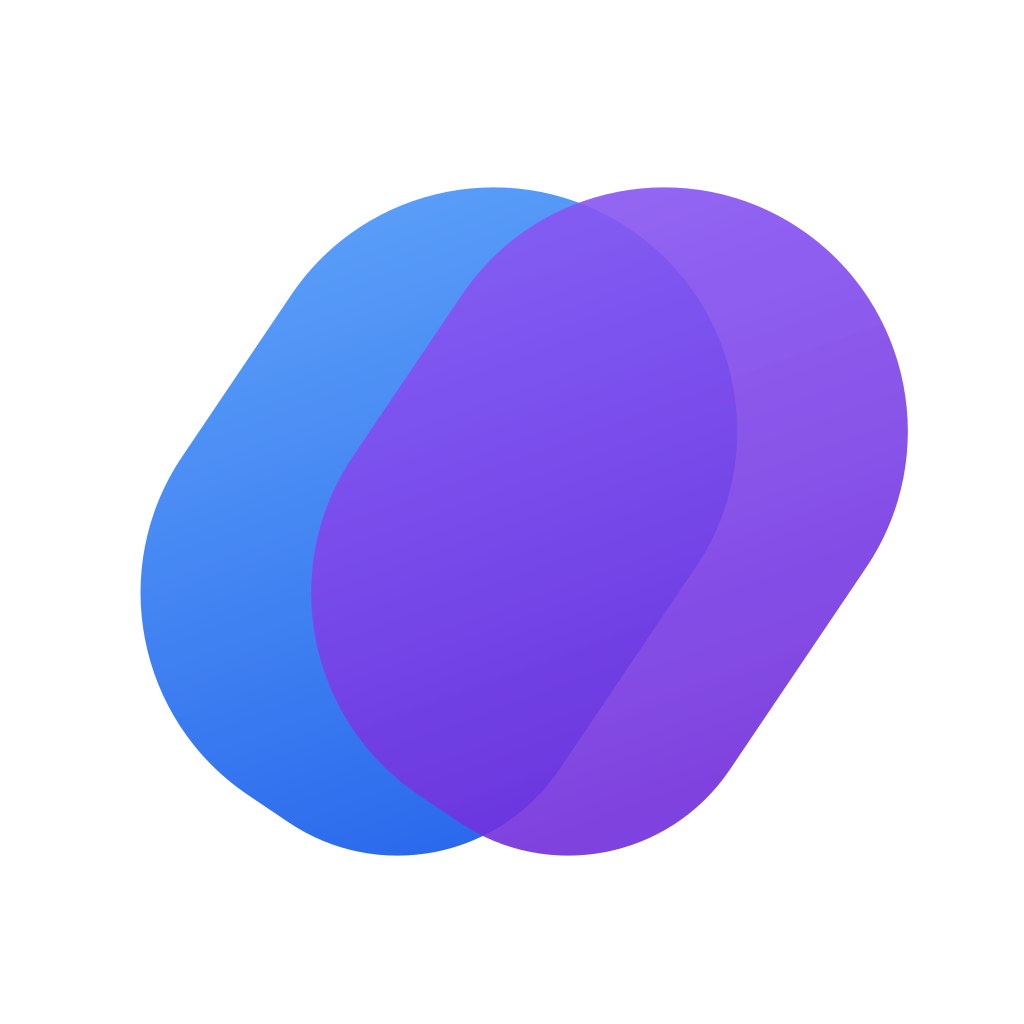
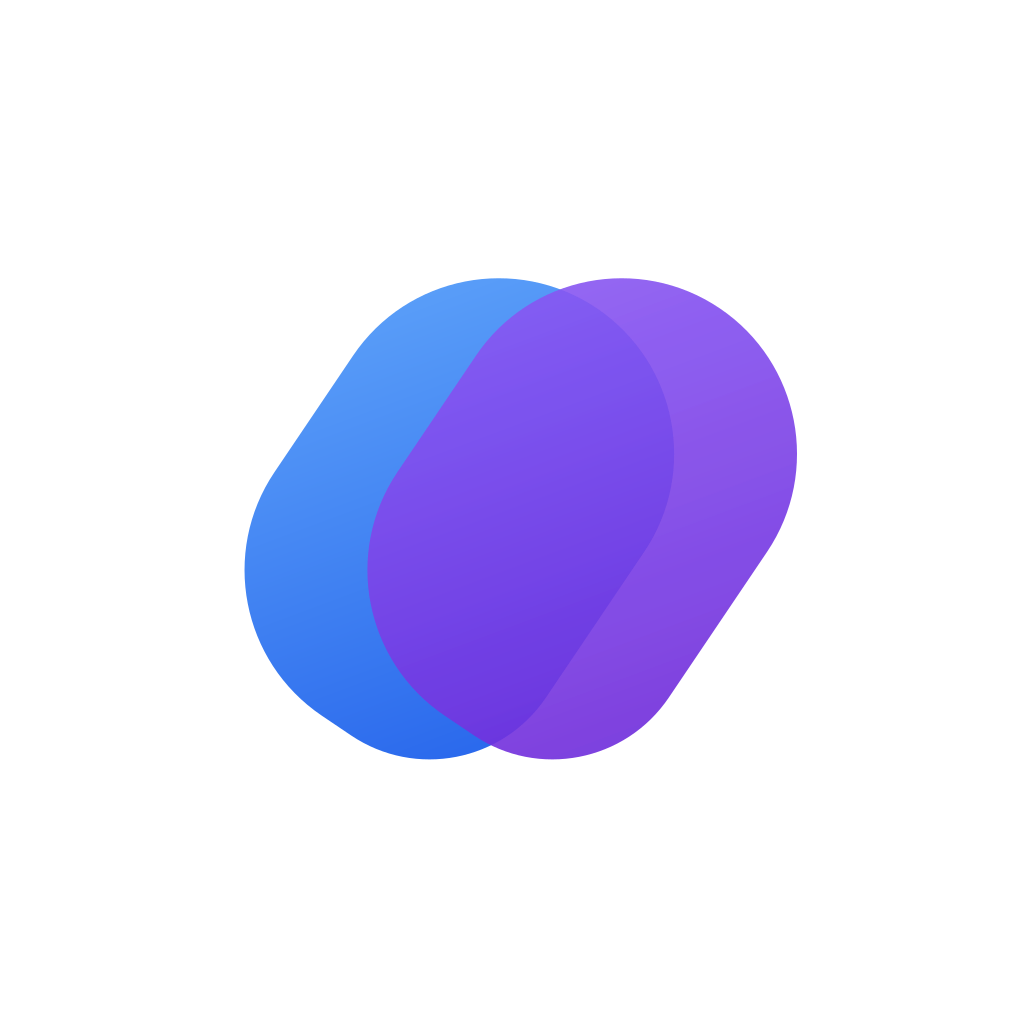
Corrigir ícone adaptativo e estabilidade do Fluxo

Changed region(s): [[0.125, 0.1562, 0.9062, 0.8438]]

diff --git a/server/services/ai/client.ts b/server/services/ai/client.ts
@@ -10,8 +10,8 @@ import { DomainError, rateLimited } from "../../../core/kernel/errors.ts";
 import { integrationStatus, integrationToken } from "../integration-credentials.ts";
 
 const OPENAI_ENDPOINT = "https://api.openai.com/v1/responses";
-const GEMINI_MODEL = "gemini-3.5-flash-lite";
-const GEMINI_ENDPOINT = `https://generativelanguage.googleapis.com/v1beta/models/${GEMINI_MODEL}:generateContent`;
+const GEMINI_MODEL = "gemini-3.6-flash";
+const GEMINI_FALLBACK_MODEL = "gemini-3.8-flash";
 const TIMEOUT_MS = 45_000;
 
 const OPENAI_MODEL = "gpt-5-mini";
@@ -125,9 +125,47 @@ async function askOpenAI<T>(input: AskInput, token: string): Promise<T> {
 }
 
 async function askGemini<T>(input: AskInput, token: string): Promise<T> {
+  let resposta = await requestGemini(GEMINI_MODEL, input, token);
+  // O provedor recomenda recuar progressivamente quando retorna 503. A chave
+  // pode estar correta e o modelo indisponível; repetir imediatamente a mesma
+  // chamada só aumenta a fila. Depois tentamos outro modelo da mesma conta.
+  if (resposta.status === 503) {
+    await delay(1_000);
+    resposta = await requestGemini(GEMINI_MODEL, input, token);
+  }
+  if (resposta.status === 503) {
+    await delay(2_000);
+    resposta = await requestGemini(GEMINI_FALLBACK_MODEL, input, token);
+  }
+
+  if (resposta.status === 429) {
+    throw rateLimited("O provedor está sobrecarregado. Tente daqui a pouco.", 30);
+  }
+  if (!resposta.ok) {
+    const corpo = (await resposta.json().catch(() => ({}))) as { error?: { status?: string } };
+    console.error("Falha na API do Gemini", resposta.status, corpo.error?.status);
+    if (resposta.status === 503) {
+      throw new DomainError("conflict", "O Gemini está temporariamente indisponível. Sua chave está cadastrada; tente novamente em alguns minutos.");
+    }
+    if (resposta.status === 401 || resposta.status === 403) {
+      throw new DomainError("conflict", "A chave Gemini não tem acesso ao modelo. Confira a chave em Configurações → Integrações.");
+    }
+    throw new DomainError("conflict", "Não foi possível falar com o assistente agora.");
+  }
+
+  const corpo = (await resposta.json()) as GeminiBody;
+  const texto = corpo.candidates?.[0]?.content?.parts?.map((part) => part.text ?? "").join("") ?? null;
+  return parseStructured<T>(texto);
+}
+
+function delay(ms: number): Promise<void> {
+  return new Promise((resolve) => setTimeout(resolve, ms));
+}
+
+async function requestGemini(model: string, input: AskInput, token: string): Promise<Response> {
   let resposta: Response;
   try {
-    resposta = await fetch(GEMINI_ENDPOINT, {
+    resposta = await fetch(`https://generativelanguage.googleapis.com/v1beta/models/${model}:generateContent`, {
       method: "POST",
       headers: {
         "x-goog-api-key": token,
@@ -138,7 +176,8 @@ async function askGemini<T>(input: AskInput, token: string): Promise<T> {
         systemInstruction: { parts: [{ text: input.instructions }] },
         contents: [{ role: "user", parts: input.content.map(geminiPart) }],
         generationConfig: {
-          responseFormat: { text: { mimeType: "application/json", schema: input.schema } },
+          responseMimeType: "application/json",
+          responseJsonSchema: input.schema,
         },
       }),
     });
@@ -148,17 +187,7 @@ async function askGemini<T>(input: AskInput, token: string): Promise<T> {
     });
   }
 
-  if (resposta.status === 429) {
-    throw rateLimited("O provedor está sobrecarregado. Tente daqui a pouco.", 30);
-  }
-  if (!resposta.ok) {
-    console.error("Falha na API do Gemini", resposta.status);
-    throw new DomainError("conflict", "Não foi possível falar com o assistente agora.");
-  }
-
-  const corpo = (await resposta.json()) as GeminiBody;
-  const texto = corpo.candidates?.[0]?.content?.parts?.map((part) => part.text ?? "").join("") ?? null;
-  return parseStructured<T>(texto);
+  return resposta;
 }
 
 function geminiPart(part: ContentPart) {

diff --git a/server/services/dashboard.ts b/server/services/dashboard.ts
@@ -15,6 +15,7 @@ import {
   availableLimit,
   flow,
   invoiceTotals,
+  matches,
   overdueCompetences,
 } from "../../core/domain/ledger/balance.ts";
 import { projectRecurrences } from "../../core/domain/recurrence/projection.ts";
@@ -425,6 +426,16 @@ export async function buildDashboard(userId: string, now: Date = new Date()): Pr
   };
 
   const position = computeFinancialPosition(positionInput);
+  // As consultas de fatura de cada cartão percorrem várias competências.
+  // Entregar só as linhas daquele cartão evita reler o razão inteiro a cada
+  // vencimento, mantendo os mesmos filtros e totais do domínio.
+  const entriesByCard = new Map<string, LedgerEntry[]>();
+  for (const entry of entries) {
+    if (entry.party.kind !== "card") continue;
+    const rows = entriesByCard.get(entry.party.cardId) ?? [];
+    rows.push(entry);
+    entriesByCard.set(entry.party.cardId, rows);
+  }
 
   return {
     today,
@@ -455,7 +466,7 @@ export async function buildDashboard(userId: string, now: Date = new Date()): Pr
     },
     monthFlow: monthFlow(entries, accounts, competence),
     accounts: summarizeAccounts(accounts, entries, today),
-    cards: cards.map((card) => summarizeCard(card, entries, today)),
+    cards: cards.map((card) => summarizeCard(card, entriesByCard.get(card.id) ?? [], today)),
     upcoming: upcomingCommitments(entries, meta, today, projectedTransactionIds),
     categorySpend: spendByCategory(entries, meta, categories, competence),
     dailySpend: dailySpend(entries, accounts, competence, today),
@@ -564,10 +575,8 @@ function monthFlow(
 /**
  * A curva de gastos do mês.
  *
- * Cada ponto é o mesmo cálculo de `monthFlow`, recortado por `upTo` — não uma
- * segunda soma escrita à parte. É o que garante que o último ponto seja o
- * total do mês: os dois saem da mesma função, com o mesmo filtro de contas, de
- * situação e de natureza.
+ * Usa o mesmo filtro de `monthFlow` e acumula os lançamentos uma vez. Reler
+ * o razão inteiro em cada dia ultrapassava o limite de CPU do Worker.
  *
  * A série para em **hoje**, e não no fim do mês. Desenhar os dias que ainda
  * não aconteceram acrescenta um trecho reto à direita, que o olho lê como
@@ -586,16 +595,19 @@ function dailySpend(
   // Competência futura — acontece em projeção — não tem dia decorrido nenhum.
   if (ate < inicio) return [];
 
-  return eachDay(inicio, ate).map((dia) => ({
-    date: dia,
-    accumulatedCents: flow(entries, {
-      accountIds,
-      competence,
-      states: ["confirmed"],
-      kinds: CONSUMPTION,
-      upTo: dia,
-    }).outflow,
-  }));
+  const filter = { accountIds, competence, states: ["confirmed"] as const, kinds: CONSUMPTION };
+  const expenses = entries
+    .filter((entry) => entry.amount < 0 && matches(entry, filter) && entry.effectiveOn <= ate)
+    .sort((left, right) => left.effectiveOn.localeCompare(right.effectiveOn));
+  let accumulated = 0;
+  let next = 0;
+  return eachDay(inicio, ate).map((dia) => {
+    while (next < expenses.length && expenses[next].effectiveOn <= dia) {
+      accumulated -= expenses[next].amount;
+      next++;
+    }
+    return { date: dia, accumulatedCents: accumulated };
+  });
 }
 
 /** Compromissos previstos dos próximos dias — a agenda da saúde financeira. */

diff --git a/core/domain/position/financial-position.ts b/core/domain/position/financial-position.ts
@@ -179,10 +179,13 @@ export function computeFreeToSpend(input: PositionInput, purse: Purse = "all"): 
 
   let openInvoices = 0;
   for (const card of creditCards) {
+    const cardEntries = input.entries.filter(
+      (entry) => entry.party.kind === "card" && entry.party.cardId === card.id,
+    );
     const active = activeCompetence(card, input.today);
-    for (const competence of [...overdueCompetences(input.entries, card.id, active), active]) {
-      const { outstanding } = invoiceTotals(input.entries, card.id, competence);
-      const ignorado = excludedInvoiceCharges(input.entries, card.id, competence, isExcluded);
+    for (const competence of [...overdueCompetences(cardEntries, card.id, active), active]) {
+      const { outstanding } = invoiceTotals(cardEntries, card.id, competence);
+      const ignorado = excludedInvoiceCharges(cardEntries, card.id, competence, isExcluded);
       const devido = Math.max(0, outstanding - ignorado);
       if (devido <= 0) continue;
       openInvoices += devido;
@@ -416,15 +419,16 @@ export function projectedInvoicePayments(input: PositionInput): Map<Competence, 
   for (const card of input.cards) {
     if (card.kind !== "credit") continue;
 
+    const cardEntries = input.entries.filter(
+      (entry) => entry.party.kind === "card" && entry.party.cardId === card.id,
+    );
     const competences = new Set<Competence>();
-    for (const entry of input.entries) {
-      if (entry.party.kind === "card" && entry.party.cardId === card.id) competences.add(entry.competence);
-    }
+    for (const entry of cardEntries) competences.add(entry.competence);
 
     for (const competence of competences) {
       // Aqui a projeção **entra**: a pergunta é quanto a fatura vai custar
       // quando vencer, e a assinatura recorrente vai estar nela.
-      const { outstanding } = invoiceTotals(input.entries, card.id, competence, undefined, {
+      const { outstanding } = invoiceTotals(cardEntries, card.id, competence, undefined, {
         includeProjected: true,
       });
       if (outstanding <= 0) continue;

diff --git a/server/services/ai/client.test.ts b/server/services/ai/client.test.ts
@@ -35,10 +35,26 @@ test("cada conta escolhe Gemini e envia schema estruturado", async () => {
     const body = JSON.parse(String(init?.body));
     assert.equal(body.systemInstruction.parts[0].text, entrada.instructions);
     assert.equal(body.contents[0].parts[0].text, "Oi");
-    assert.deepEqual(body.generationConfig.responseFormat.text.schema, entrada.schema);
+    assert.equal(body.generationConfig.responseMimeType, "application/json");
+    assert.deepEqual(body.generationConfig.responseJsonSchema, entrada.schema);
     return Response.json({ candidates: [{ content: { parts: [{ text: '{"answer":"Olá"}' }] } }] });
   };
   assert.deepEqual(await ask<{ answer: string }>(userId, entrada), { answer: "Olá" });
+});
+
+test("Gemini recua e usa modelo alternativo quando o preferido está sobrecarregado", async () => {
+  await saveIntegrationToken(userId, "gemini", "chave-gemini-de-teste");
+  const models: string[] = [];
+  globalThis.fetch = async (url) => {
+    models.push(String(url));
+    return models.length < 3
+      ? Response.json({ error: { status: "UNAVAILABLE" } }, { status: 503 })
+      : Response.json({ candidates: [{ content: { parts: [{ text: '{"answer":"Olá"}' }] } }] });
+  };
+  assert.deepEqual(await ask<{ answer: string }>(userId, entrada), { answer: "Olá" });
+  assert.match(models[0], /gemini-3\.6-flash/);
+  assert.match(models[1], /gemini-3\.6-flash/);
+  assert.match(models[2], /gemini-3\.8-flash/);
 });
 
 test("envia foto ao Gemini como dados inline com MIME correto", async () => {

diff --git a/app/auth-context.ts b/app/auth-context.ts
@@ -7,14 +7,18 @@
  */
 
 import { cookies } from "next/headers";
+import { cache } from "react";
 
 import { SESSION_COOKIE, type AuthenticatedUser, resolveSession } from "../server/auth/session.ts";
 import { ensureMigrated } from "../server/db/migrator.ts";
 
-export async function currentUser(): Promise<AuthenticatedUser | null> {
+// Layout e página pedem a mesma sessão durante a renderização. `cache` é
+// limitado à requisição React, portanto não mistura contas nem repete a
+// consulta de autenticação no D1 para cada componente.
+export const currentUser = cache(async (): Promise<AuthenticatedUser | null> => {
   await ensureMigrated();
   const store = await cookies();
   return resolveSession(store.get(SESSION_COOKIE)?.value ?? null);
-}
+});
 
 export type { AuthenticatedUser };

diff --git a/server/services/ai/coach.ts b/server/services/ai/coach.ts
@@ -15,8 +15,8 @@ import { buildReport } from "../reports.ts";
 import { ask, assertConfigured } from "./client.ts";
 import { consume } from "./quota.ts";
 
-/** Teto de lançamentos no contexto. Além disso o prompt fica caro sem ganhar precisão. */
-const MAX_TRANSACTIONS = 400;
+/** Teto de detalhes recentes; os totais e categorias vêm do relatório completo. */
+const MAX_TRANSACTIONS = 120;
 
 export type Advice = {
   readonly answer: string;

diff --git a/mobile/app.config.js b/mobile/app.config.js
@@ -23,5 +23,6 @@ export default {
     "./plugins/with-notification-listener.cjs",
     "./plugins/with-assinatura-release.cjs",
     "./plugins/with-release-sem-cliente-dev.cjs",
+    "./plugins/with-adaptive-icon-vector.cjs",
   ],
 };
